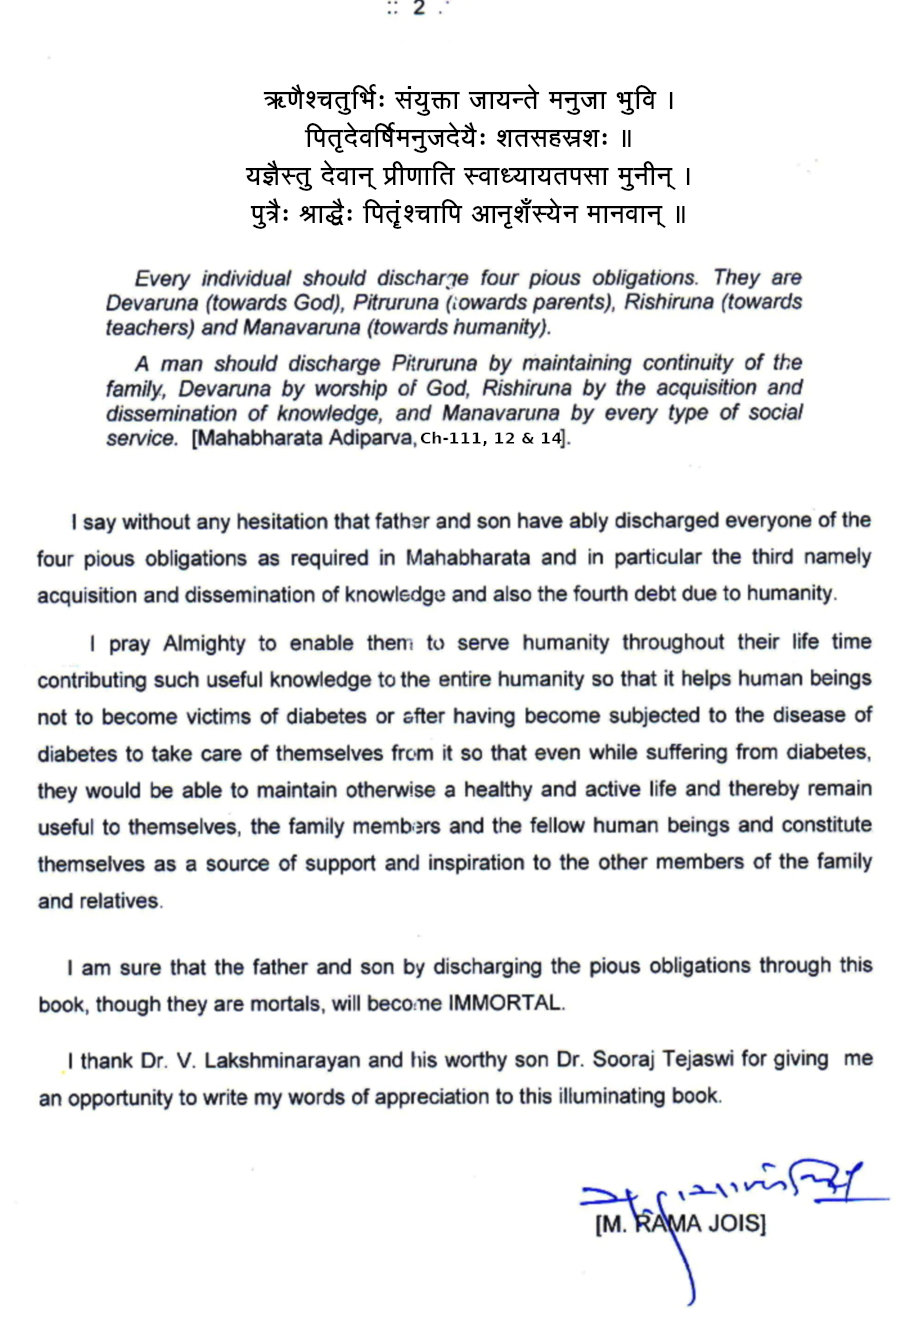
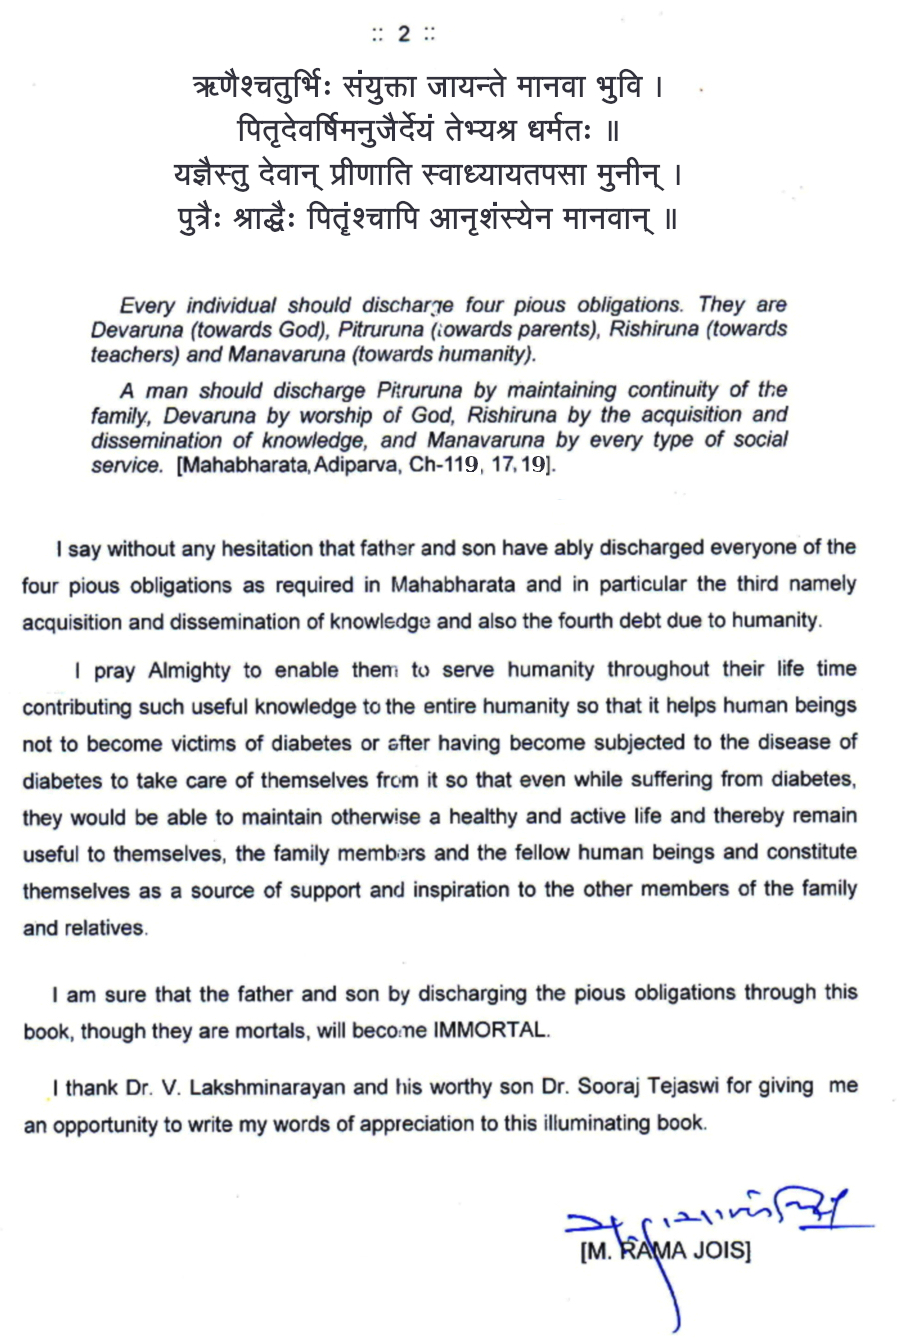
diabetes page 6 modified

Changed region(s): [[0.0311, 0.0306, 0.9644, 0.858], [0.6222, 0.858, 0.9956, 1.0], [0.4356, 0.0, 0.4978, 0.0306]]

diff --git a/TeX/040/src/000e-messages.tex b/TeX/040/src/000e-messages.tex
@@ -4,38 +4,11 @@
 
 \begin{figure}[h]
 \centering
-\includegraphics[scale=2]{images/002.jpg}
+\includegraphics[scale=2.1]{images/002.jpg}
 \end{figure}
 
-\newpage
-
-\begin{center}
-\textbf{:: 2 ::}
-\end{center}
-
-
-%~ \begin{verse}
-%~ \dev{ॠणैश्चतुर्भिः संयुक्ता जायन्ते मानवा भुवि ।}
-%~ \dev{पितृदेवर्षिमनुजैर्देयं तेभ्यश्र धर्मतः ॥}
-%~ \dev{यज्ञैस्तु देवान् प्रीणाति स्वाध्यायतपसा मुनीन् ।}
-%~ \dev{पुत्रैः श्राद्धैः पितॄंश्चापि आनृशंस्येन मानवान् ॥}
-%~ \end{verse}
-
-\begin{quote}
-\textit{\textbf{Every individual should discharge four pious obligations. They are Devaruna (towards God), Pitruruna (towards parents), Rishiruna (towards teachers) and Manavaruna (towards humanity).}}
-
-\textit{\textbf{A man should discharge Pitruruna by maintaining continuity of the family, Devaruna by worship of God, Rishiruna by the acquisition and dissemination of knowledge, and Manavaruna by every type of social service. [Mahabharata, Adiparva, Ch-119, 17 \& 19].}}
-\end{quote}
-
-I say without any hesitation that father and son have ably discharged everyone of the four pious obligations as required in Mahabharata and in particular the third namely acquisition and dissemination of knowledge and also the fourth debt due to humanity.
-
-I pray Almighty to enable them to serve humanity throughout their life time contributing such useful knowledge to the entire humanity so that it helps human beings not to become victims of diabetes or after having become subjected to the disease of diabetes to take care of themselves from it so that even while suffering from diabetes, they would be able to maintain otherwise a healthy and active life and thereby remain useful to themselves, the family members and the fellow human beings and constitute themselves as a source of support and inspiration to the other members of the family and relatives.
-
-I am sure that the father and son by discharging the pious obligations through this book, though they are mortals, will become IMMORTAL.
-
-I thank Dr. V. Lakshminarayan and his worthy son Dr. Sooraj Tejaswi for giving me an opportunity to write my words of appreciation to this illuminating book.
-
-\begin{flushright}
-\includegraphics[scale=2]{images/003a.jpg}
-\end{flushright}
+\begin{figure}[h]
+\centering
+\includegraphics[scale=2.1]{images/003.jpg}
+\end{figure}
 
